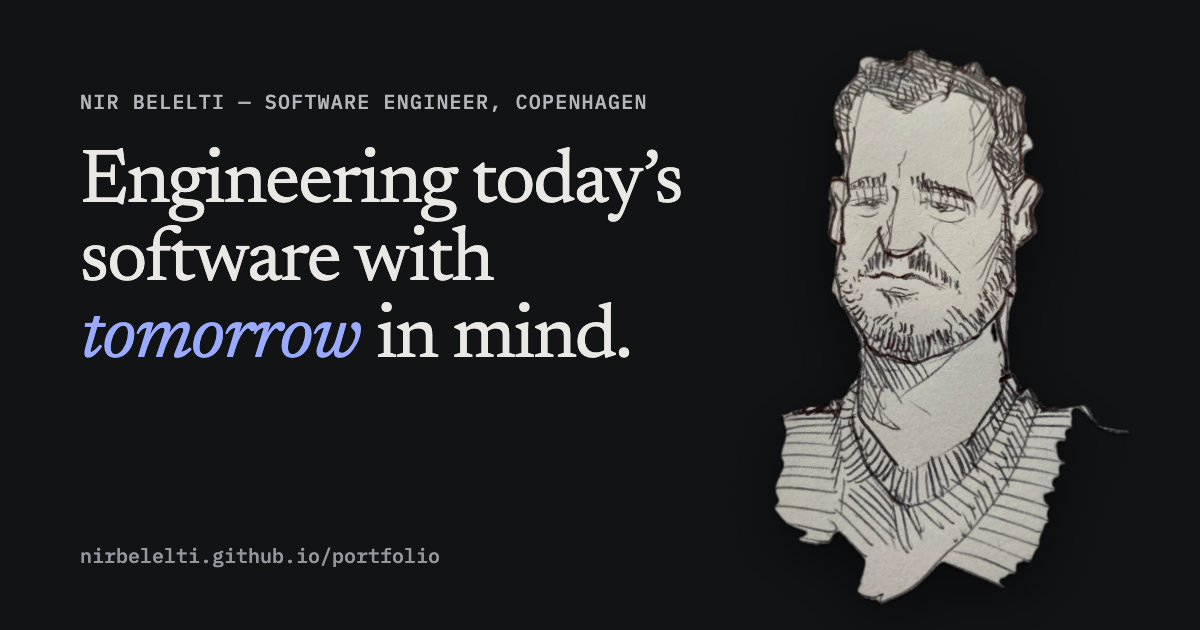
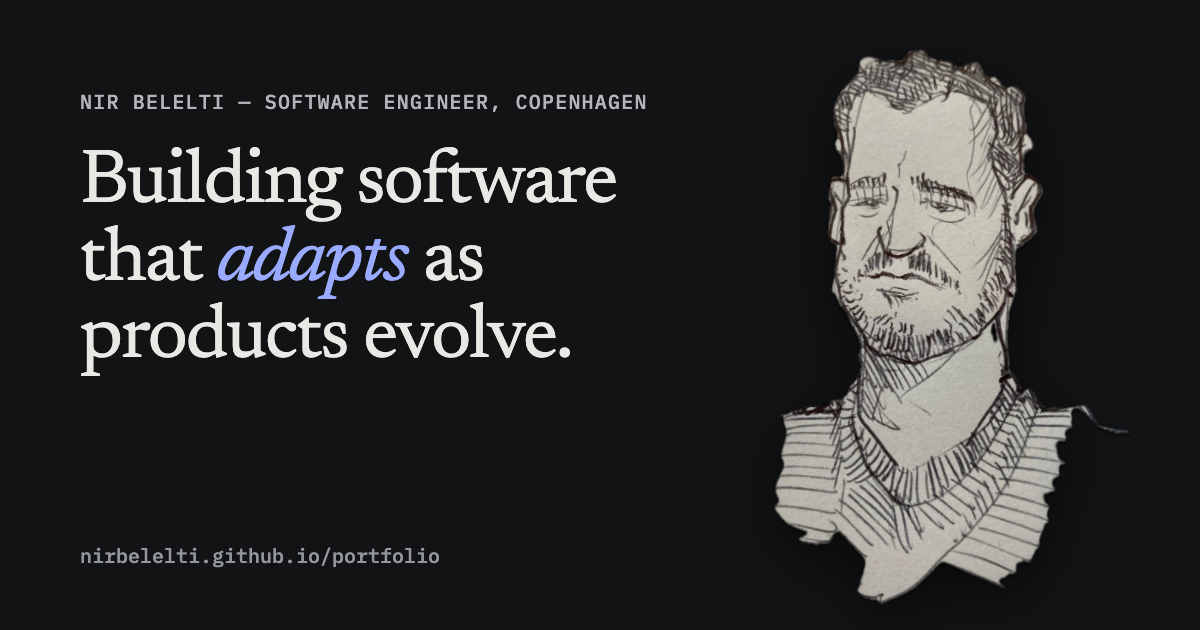
src/sections/Hero.tsx index.html public/og-image.png - Change the hero headline to Building software that adapts as products evolve - Rewrite the introduction around adaptable software, iteration and product thinking - Signal ongoing freelancing alongside the MedTech SaaS experience and degrees - Up

Changed region(s): [[0.0617, 0.2111, 0.5858, 0.4825], [0.0617, 0.4825, 0.5242, 0.6032]]

diff --git a/src/sections/Hero.tsx b/src/sections/Hero.tsx
@@ -14,20 +14,21 @@ const Hero = () => (
                     </span>
                     <span className="visually-hidden">: </span>
                     <span className="hero__claim">
-                        Engineering today’s software with <em>tomorrow</em> in mind.
+                        Building software that <em>adapts</em> as products evolve.
                     </span>
                 </h1>
                 <div className="hero__lead">
                     <p>
-                        I’m a full-stack engineer with a strong focus on backend development. I learn quickly, work
-                        in short iterations, and sketch the system before I build it, so it stays flexible as
-                        requirements change.
+                        I’m a full-stack engineer with a strong focus on backend development. I sketch the system
+                        before I build it and work in short iterations, so software stays adaptable as the product
+                        grows and changes.
                     </p>
                     <p>
-                        I’ve worked as a professional software developer since 2016 and moved to freelancing in
-                        2023. I hold an MSc in Computer Science and Engineering from DTU, specialising in security,
-                        and a BA in Business Administration — a mix of technical and business thinking I bring to
-                        every problem.
+                        Since 2016 I’ve built software products, including seven years on a MedTech SaaS, and I’ve
+                        been freelancing since 2023. I hold an MSc in Computer Science and Engineering from DTU,
+                        specialising in security, and a BA in Business Administration. That combination shapes how I
+                        work: with attention to the architecture, the people using the product, and the business
+                        problem it needs to solve.
                     </p>
                 </div>
                 <div className="hero__actions">

diff --git a/index.html b/index.html
@@ -17,18 +17,18 @@
     <meta property="og:type" content="profile" />
     <meta property="og:site_name" content="Nir Belelti" />
     <meta property="og:title" content="Nir Belelti · Software Engineer, Ruby on Rails" />
-    <meta property="og:description" content="Full-stack engineer in Copenhagen, Ruby on Rails at the core. Engineering today’s software with tomorrow in mind." />
+    <meta property="og:description" content="Full-stack engineer in Copenhagen, Ruby on Rails at the core. Building software that adapts as products evolve." />
     <meta property="og:url" content="https://nirbelelti.github.io/portfolio/" />
     <meta property="og:image" content="https://nirbelelti.github.io/portfolio/og-image.png" />
     <meta property="og:image:width" content="1200" />
     <meta property="og:image:height" content="630" />
-    <meta property="og:image:alt" content="Pen-and-ink portrait of Nir Belelti next to the text: Engineering today’s software with tomorrow in mind." />
+    <meta property="og:image:alt" content="Pen-and-ink portrait of Nir Belelti next to the text: Building software that adapts as products evolve." />
     <meta property="og:locale" content="en_GB" />
     <meta property="profile:first_name" content="Nir" />
     <meta property="profile:last_name" content="Belelti" />
     <meta name="twitter:card" content="summary_large_image" />
     <meta name="twitter:title" content="Nir Belelti · Software Engineer, Ruby on Rails" />
-    <meta name="twitter:description" content="Full-stack engineer in Copenhagen, Ruby on Rails at the core. Engineering today’s software with tomorrow in mind." />
+    <meta name="twitter:description" content="Full-stack engineer in Copenhagen, Ruby on Rails at the core. Building software that adapts as products evolve." />
     <meta name="twitter:image" content="https://nirbelelti.github.io/portfolio/og-image.png" />
 
     <script type="application/ld+json">
